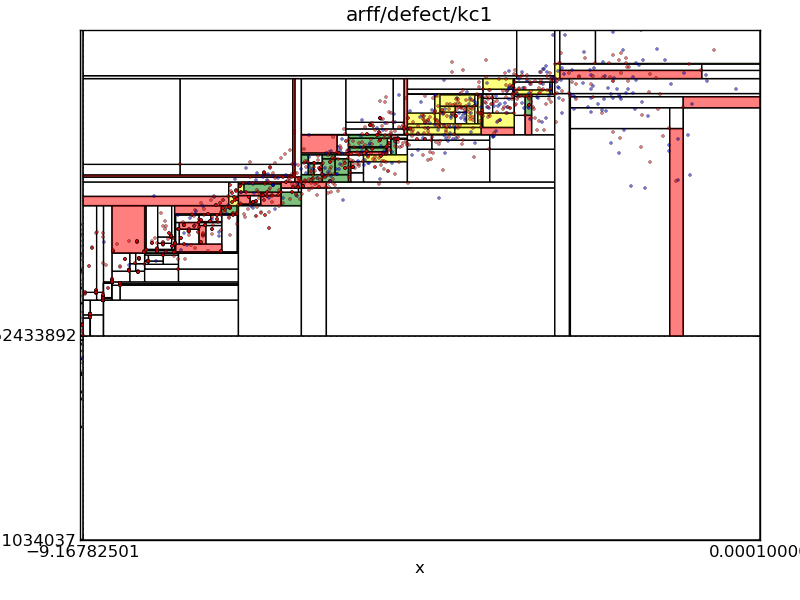
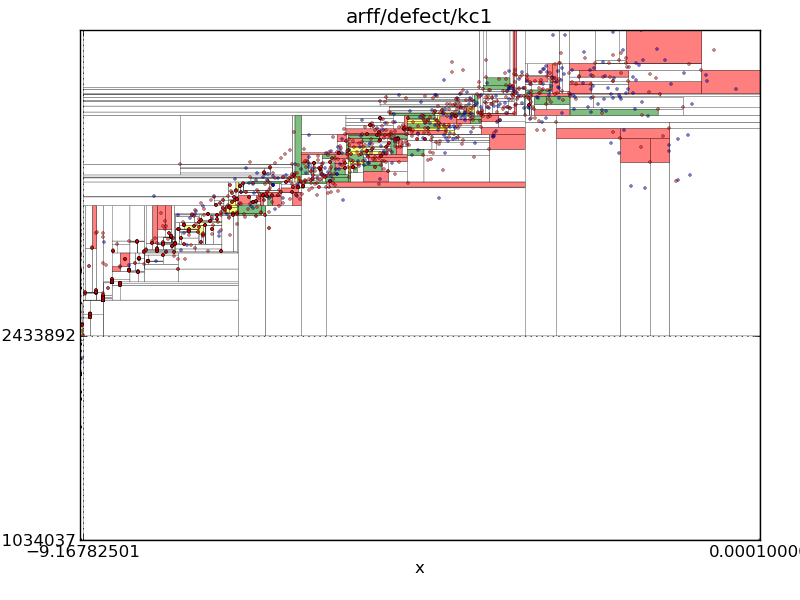
Updating line widths of quadrants to be slim (0.2) -- looks much better.

Changed region(s): [[0.0, 0.0, 0.9688, 0.57], [0.0625, 0.87, 0.1875, 0.93]]

diff --git a/trunk/src/python/idea.py b/trunk/src/python/idea.py
@@ -110,7 +110,7 @@ class Idea:
 				xmax = Quadrants[i].xmax
 				ymin = Quadrants[i].ymin
 				ymax = Quadrants[i].ymax
-				ax.broken_barh([ (xmin, (xmax - xmin)) ], (ymin, (ymax - ymin)) , facecolors='white')
+				ax.broken_barh([ (xmin, (xmax - xmin)) ], (ymin, (ymax - ymin)) , facecolors='white', linewidth=0.2)
 			
 			# Color the clusters green.
 			Clusters = GRIDCLUS(Quadrants)
@@ -149,7 +149,7 @@ class Idea:
 						xmax = Quadrant.xmax
 						ymin = Quadrant.ymin
 						ymax = Quadrant.ymax
-						ax.broken_barh([ (xmin, (xmax - xmin)) ], (ymin, (ymax - ymin)) , facecolors='green', alpha='0.5')
+						ax.broken_barh([ (xmin, (xmax - xmin)) ], (ymin, (ymax - ymin)) , facecolors='green', alpha='0.5', linewidth=0.2)
 				# Middle 50%
 				elif (i < round(len(Scores)/2)) and (i > round(len(Scores)/4)):
 					for Quadrant in Scores[i][1]:
@@ -157,7 +157,7 @@ class Idea:
 						xmax = Quadrant.xmax
 						ymin = Quadrant.ymin
 						ymax = Quadrant.ymax
-						ax.broken_barh([ (xmin, (xmax - xmin)) ], (ymin, (ymax - ymin)) , facecolors='yellow', alpha='0.5')
+						ax.broken_barh([ (xmin, (xmax - xmin)) ], (ymin, (ymax - ymin)) , facecolors='yellow', alpha='0.5', linewidth=0.2)
 				# Bottom 25%
 				elif (i < len(Scores)) and (i > round(len(Scores)/2)):
 					for Quadrant in Scores[i][1]:
@@ -165,7 +165,7 @@ class Idea:
 						xmax = Quadrant.xmax
 						ymin = Quadrant.ymin
 						ymax = Quadrant.ymax
-						ax.broken_barh([ (xmin, (xmax - xmin)) ], (ymin, (ymax - ymin)) , facecolors='red', alpha='0.5')
+						ax.broken_barh([ (xmin, (xmax - xmin)) ], (ymin, (ymax - ymin)) , facecolors='red', alpha='0.5', linewidth=0.2)
 				
 		return fig
 
